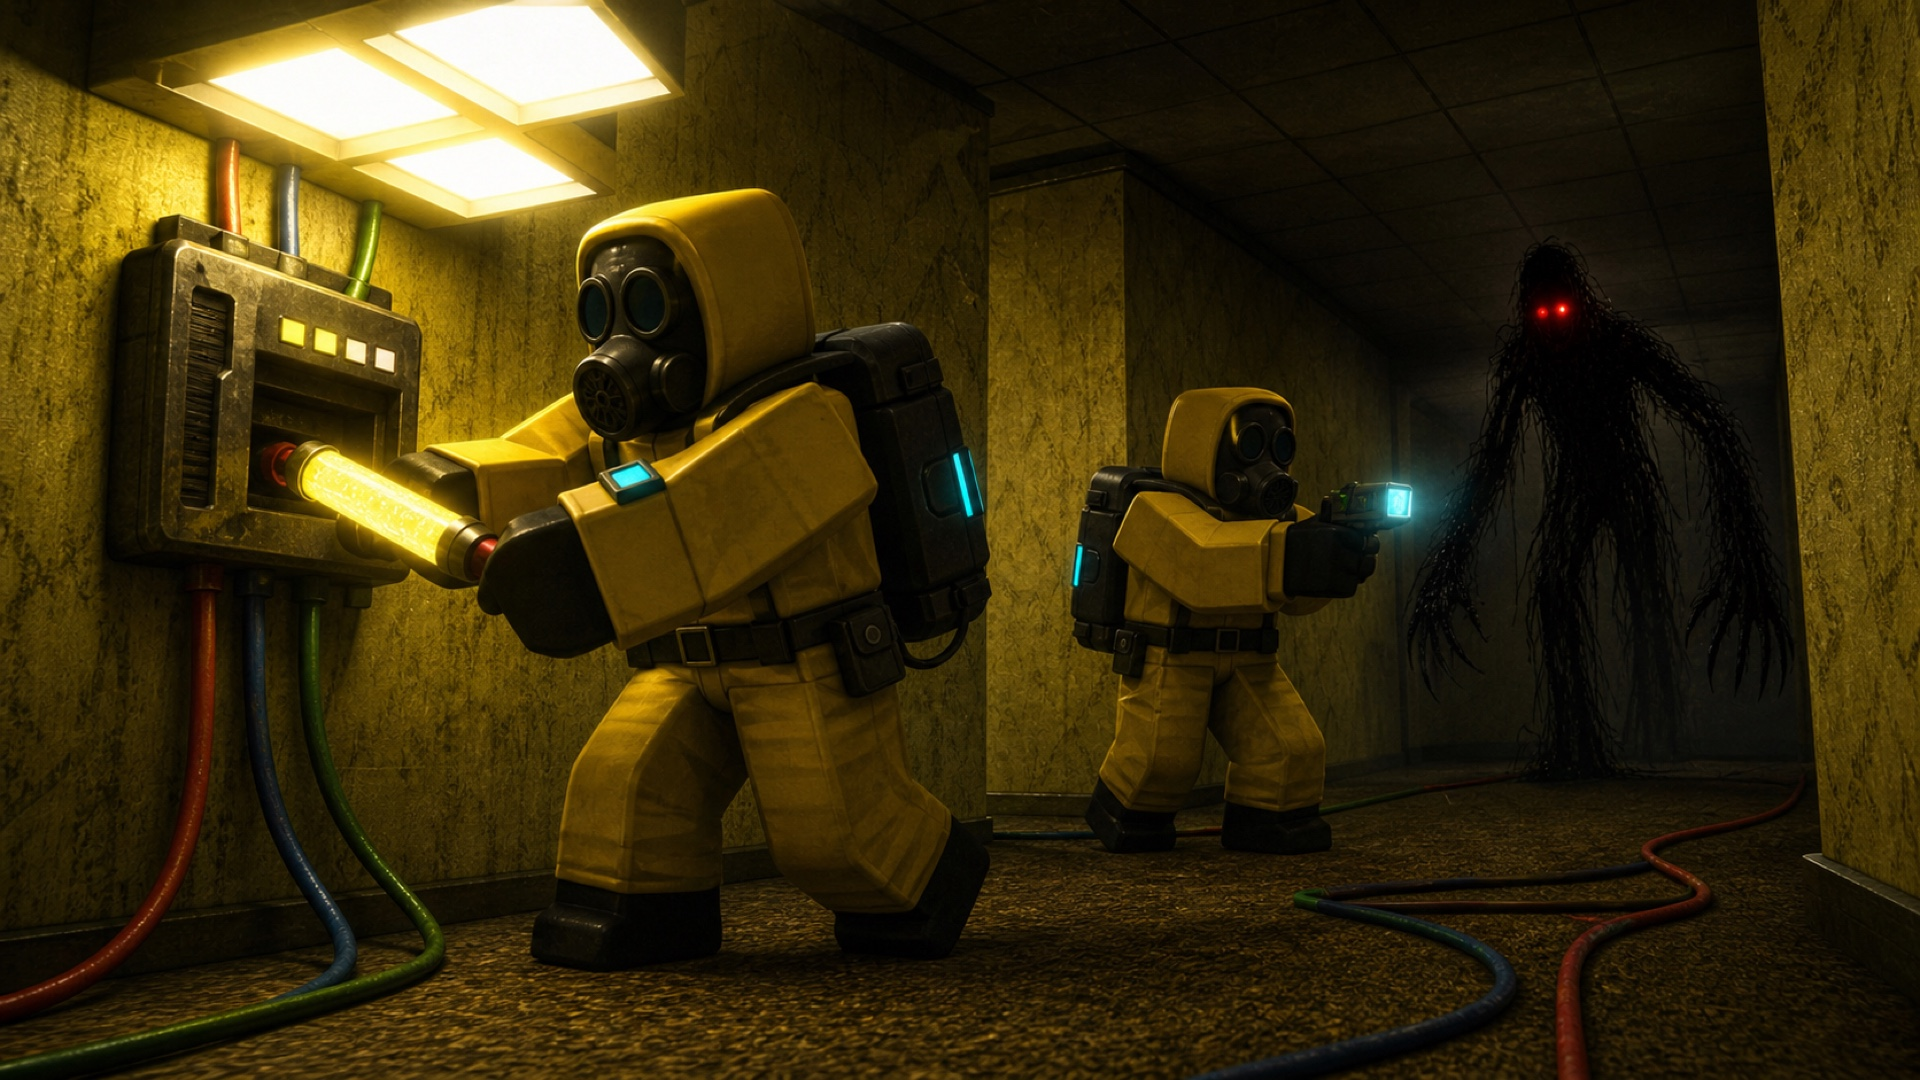
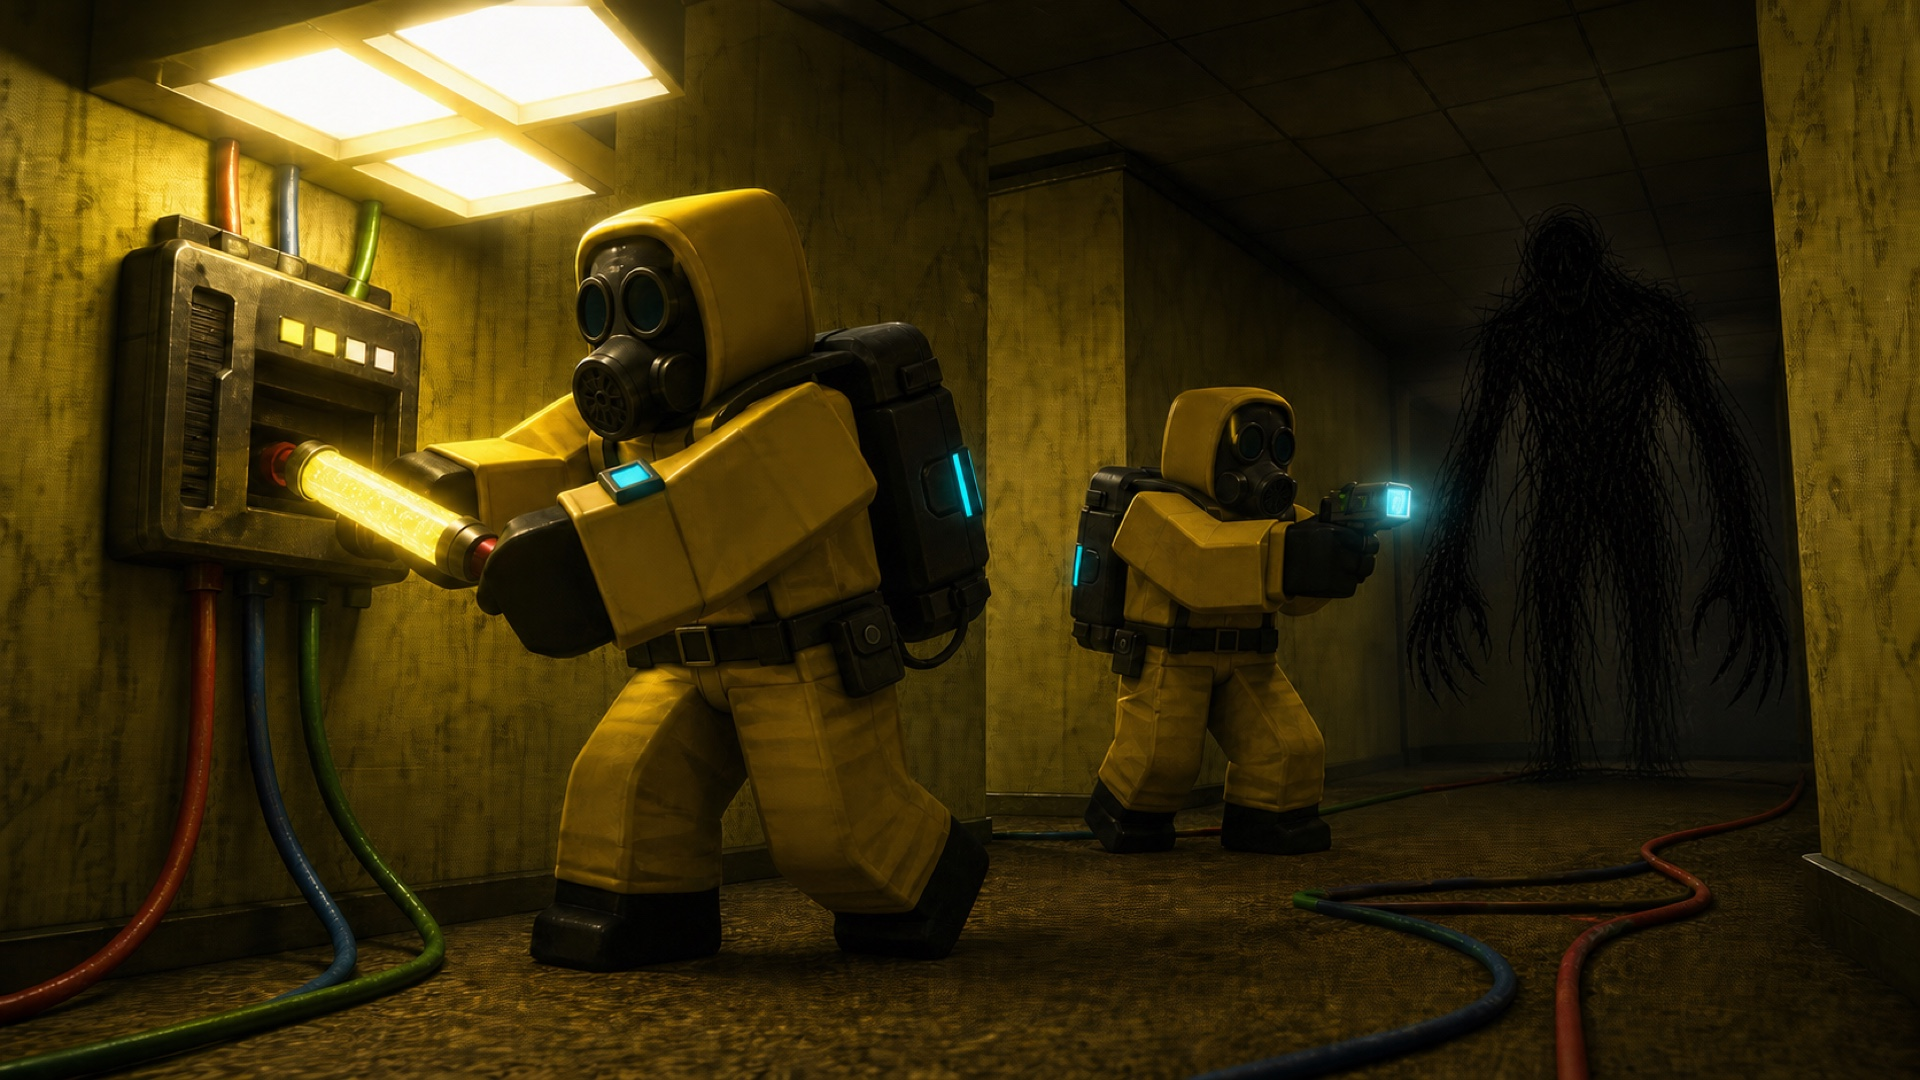
Correct Level 1 Entity in hazmat thumbnails
Replace the generic red-eyed shadow creature in both Level 1 campaign images with the definitive strand-built silhouette and faint buried screaming face. Preserve the hazmat team, objectives, level composition, and lighting.

diff --git a/assets/marketing/roblox-thumbnails-v2/README.md b/assets/marketing/roblox-thumbnails-v2/README.md
@@ -22,7 +22,7 @@ Every player uses the same recognizably blocky Roblox hazmat design: mustard-yel
 
 ## Generation references
 
-The built-in ImageGen workflow used the existing Level 1 Entity silhouette/jumpscare references, the Slidemouth turnaround, the Mall Manager front reference, the Level 2 pump material, and the approved first hazmat render as the continuity anchor for the remaining four images.
+The built-in ImageGen workflow used the definitive Level 1 full-body silhouette and buried screaming-face references, the Slidemouth turnaround, the Mall Manager front reference, the Level 2 pump material, and the approved first hazmat render as the continuity anchor for the remaining four images. The corrected Level 1 Entity has no glowing red eyes: it keeps the dense hand-scribbled strand body, extremely long arms and claws, and faint human scream hidden inside its head.
 
 ## Publication state
 
